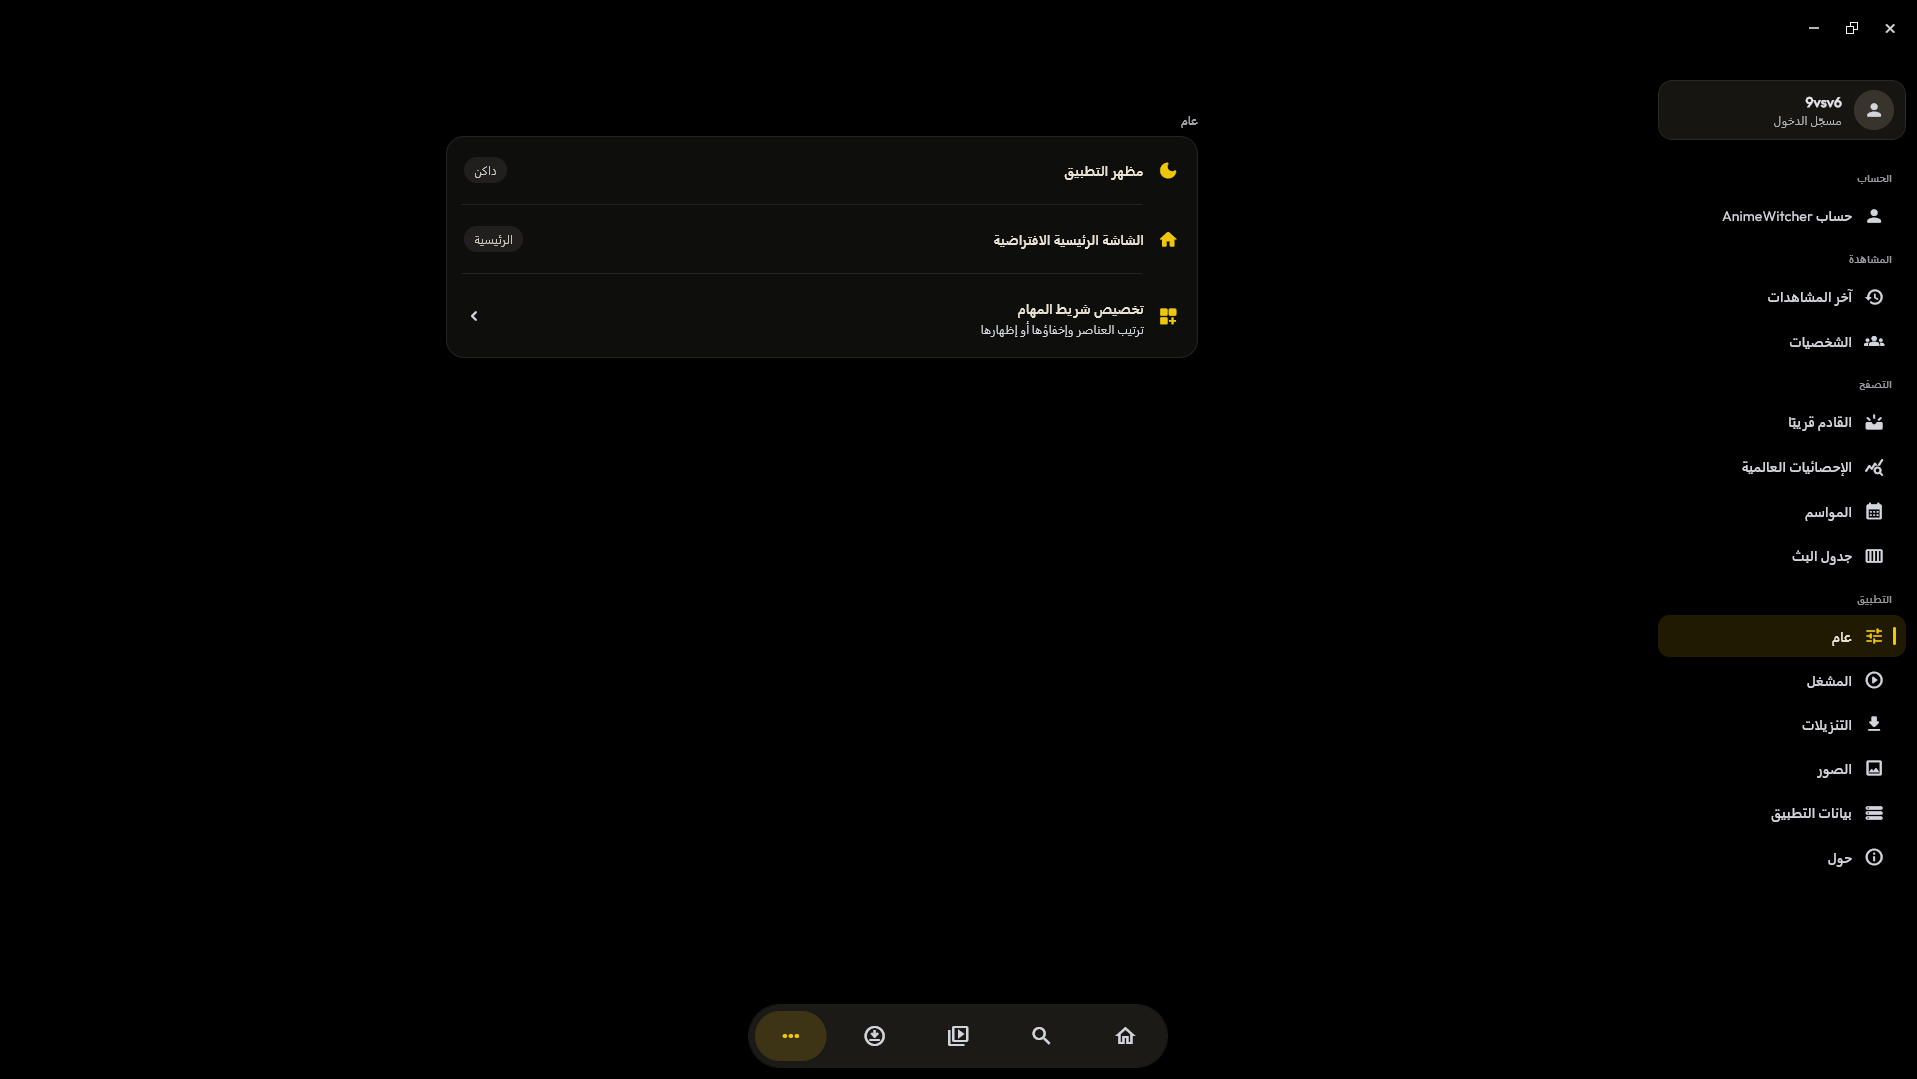
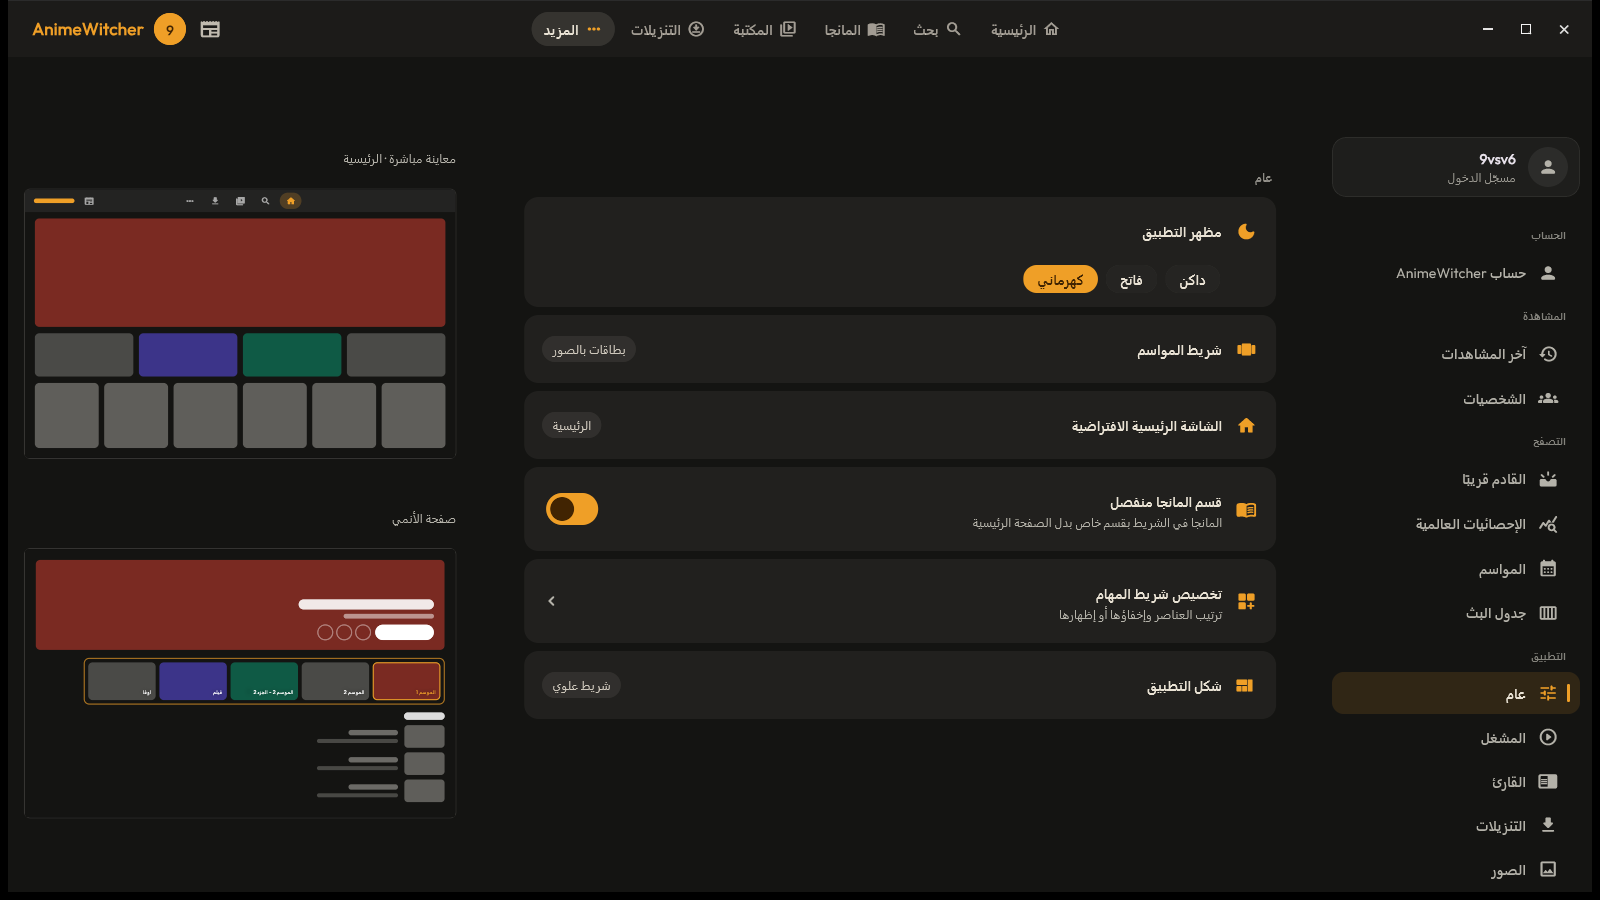
docs: refresh README screenshots, add manga section
New desktop shots of home, the anime page and general settings, plus
the manga tab, a manga page and its chapter list.

diff --git a/README.md b/README.md
@@ -55,6 +55,20 @@
   <img src="screenshots/desktop/settings.png" width="800" />
 </p>
 
+#### 📖 المانجا
+
+<p align="center">
+  <img src="screenshots/desktop/manga.png" width="800" />
+</p>
+
+<p align="center">
+  <img src="screenshots/desktop/manga-details.png" width="800" />
+</p>
+
+<p align="center">
+  <img src="screenshots/desktop/manga-chapters.png" width="800" />
+</p>
+
 ## المميزات
 
 ### 🏠 التصفّح والاكتشاف
